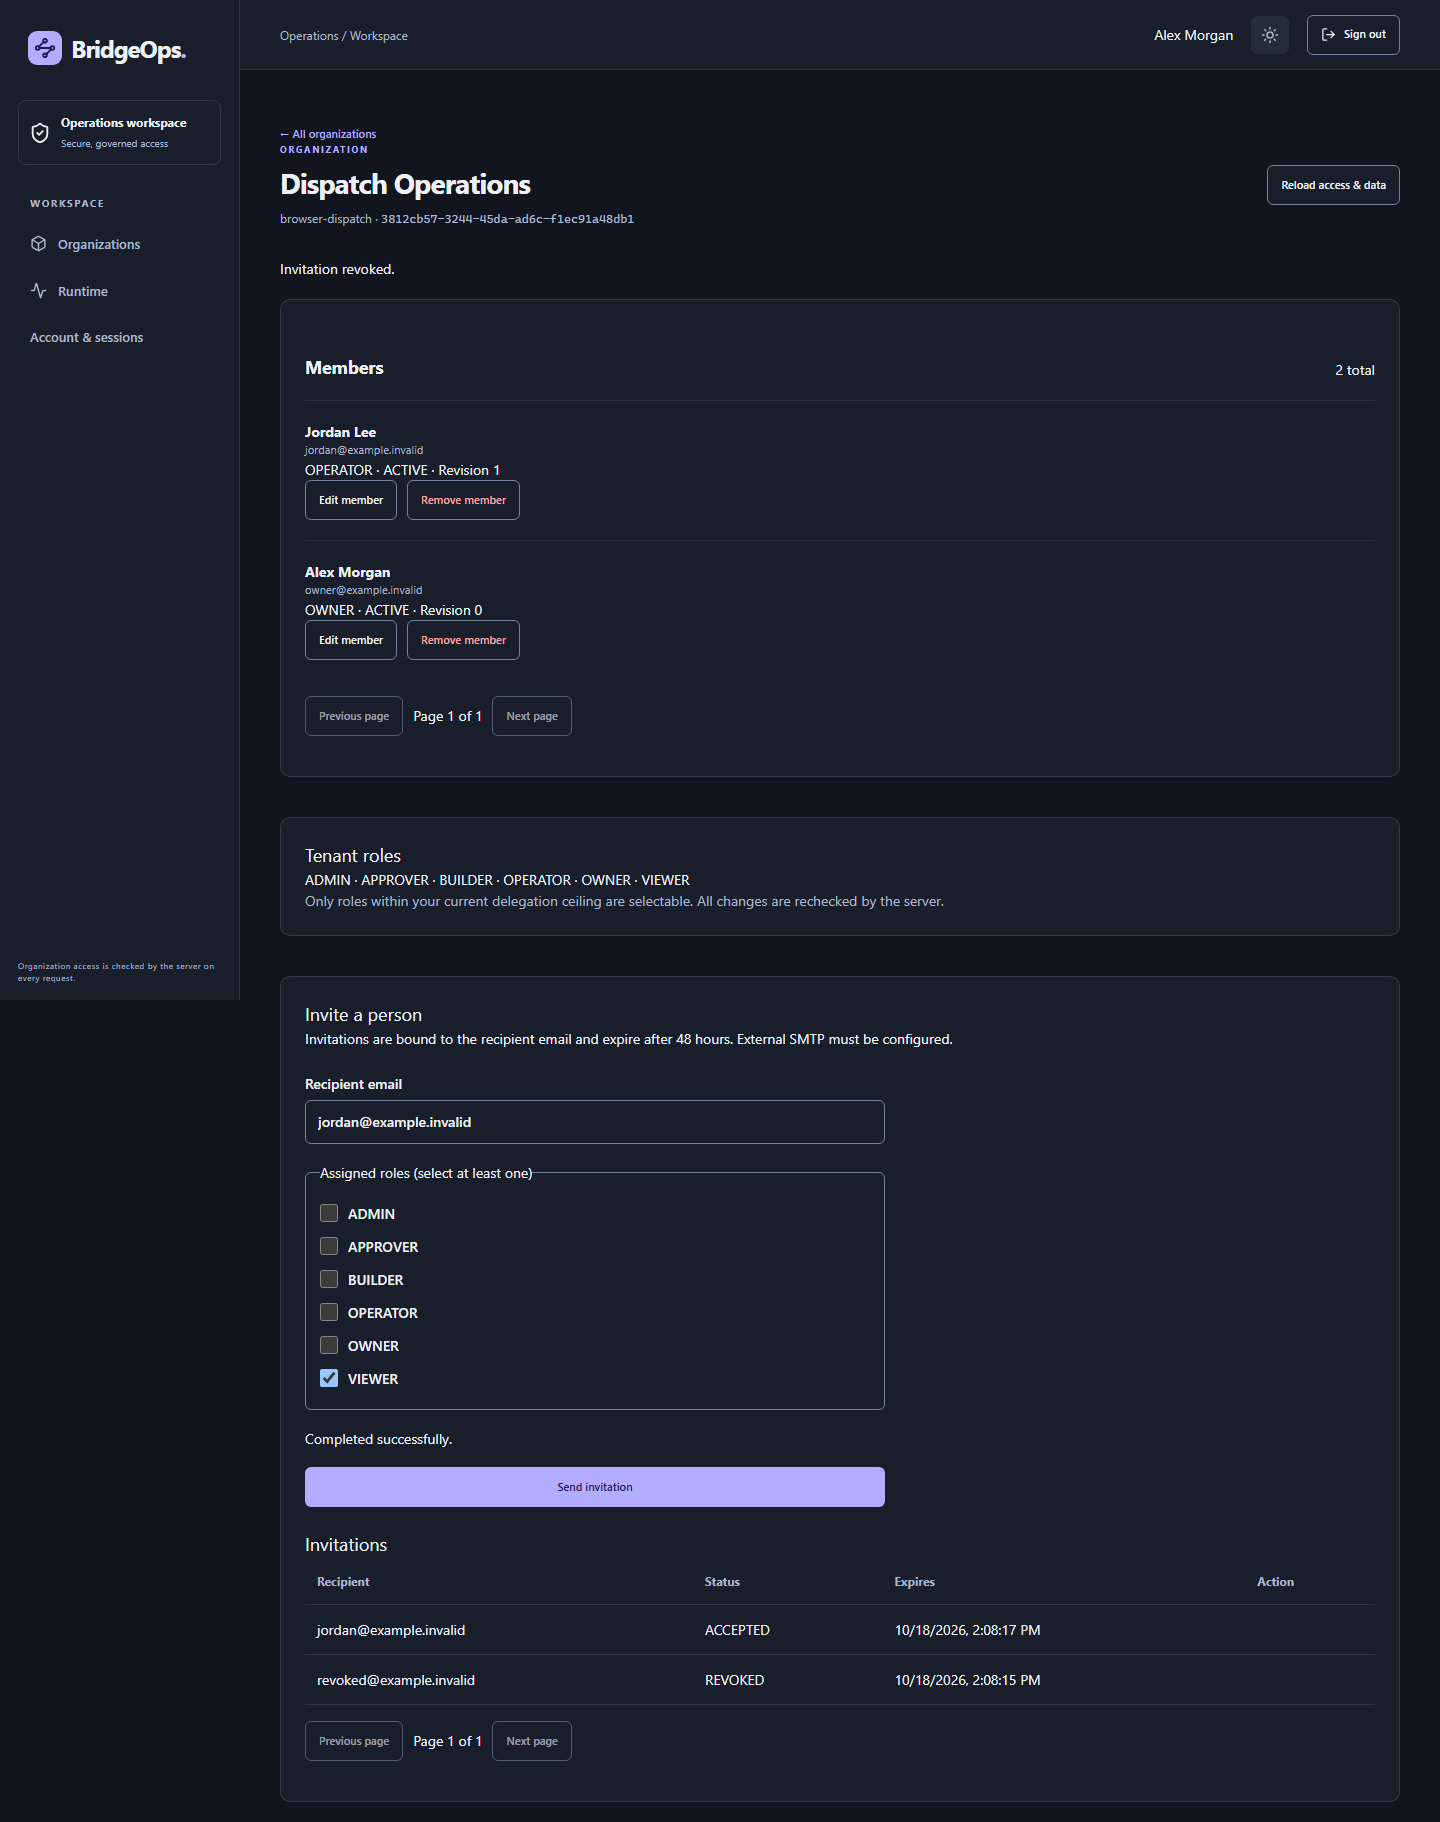
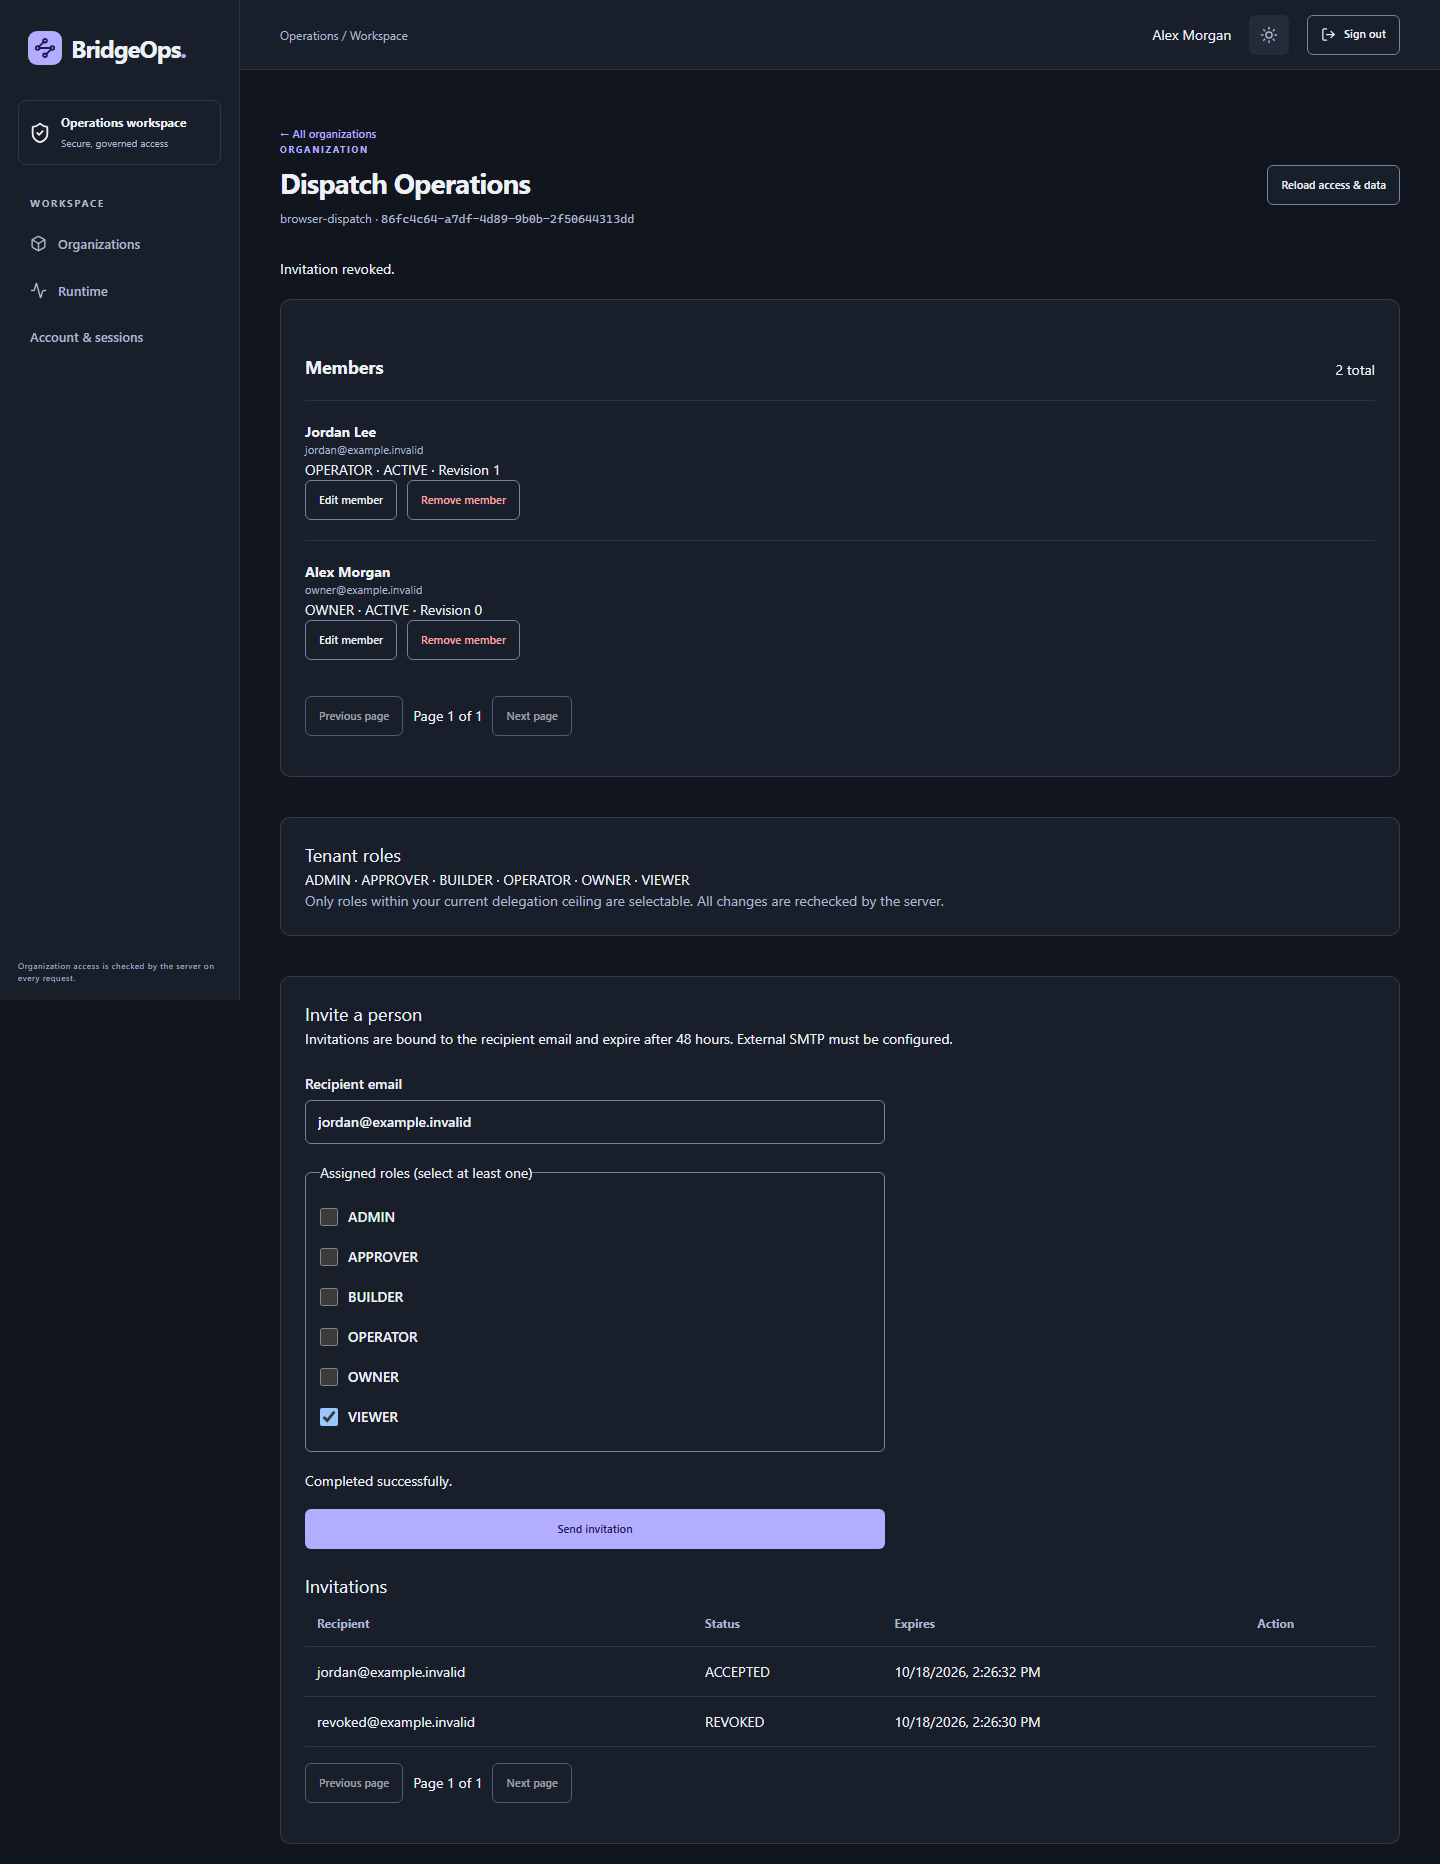
fix(web): improve keyboard access and surface safe browser CI diagnostics

diff --git a/frontend/src/styles/app.css b/frontend/src/styles/app.css
@@ -1062,11 +1062,49 @@ th {
     min-width: 0;
   }
 }
-@media(max-width:600px) {
- .sidebar { flex-direction:column; align-items:stretch; }
- .sidebar .brand { width:fit-content; }
- .sidebar nav { margin-left:0; flex-wrap:wrap; gap:6px; }
- .sidebar nav a { flex:1; justify-content:center; }
- .page-heading { min-width:0; }
- .page-heading > div { min-width:0; max-width:100%; }
+@media (max-width: 600px) {
+  .sidebar {
+    flex-direction: column;
+    align-items: stretch;
+  }
+  .sidebar .brand {
+    width: fit-content;
+  }
+  .sidebar nav {
+    margin-left: 0;
+    flex-wrap: wrap;
+    gap: 6px;
+  }
+  .sidebar nav a {
+    flex: 1;
+    justify-content: center;
+  }
+  .page-heading {
+    min-width: 0;
+  }
+  .page-heading > div {
+    min-width: 0;
+    max-width: 100%;
+  }
+}
+/* Design-foundation pointer targets; labels are the complete checkbox hit area. */
+.button,
+.icon-button {
+  min-height: 40px;
+  min-width: 40px;
+}
+.check-label {
+  min-height: 40px;
+}
+.table-scroll:focus-visible {
+  outline: 3px solid var(--color-focus);
+  outline-offset: 3px;
+}
+@media (max-width: 600px) {
+  .button,
+  .icon-button,
+  .check-label {
+    min-height: 44px;
+    min-width: 44px;
+  }
 }

diff --git a/frontend/src/app/Organizations.tsx b/frontend/src/app/Organizations.tsx
@@ -460,7 +460,12 @@ export function OrganizationDetail({ user }: { user: User }) {
               {invitations.data.items.length === 0 && (
                 <p>No invitations have been issued.</p>
               )}
-              <div className="table-scroll">
+              <div
+                className="table-scroll"
+                tabIndex={0}
+                role="region"
+                aria-label="Invitation history"
+              >
                 <table>
                   <thead>
                     <tr>

diff --git a/backend/src/test/java/com/bridgeops/browser/BrowserJourneyIT.java b/backend/src/test/java/com/bridgeops/browser/BrowserJourneyIT.java
@@ -65,7 +65,7 @@ class BrowserJourneyIT {
    Path asset=frontend.resolve(path.substring(1)).normalize();if(!asset.startsWith(frontend)){reply(exchange,404,"text/plain",new byte[0]);return;}if(!Files.isRegularFile(asset))asset=frontend.resolve("index.html");String name=asset.getFileName().toString();String mime=name.endsWith(".js")?"application/javascript":name.endsWith(".css")?"text/css":name.endsWith(".svg")?"image/svg+xml":"text/html";reply(exchange,200,mime,Files.readAllBytes(asset));
   }catch(Exception failure){if(exchange.getResponseCode()<0)reply(exchange,502,"text/plain","Disposable gateway unavailable.".getBytes(StandardCharsets.UTF_8));}finally{exchange.close();}});gateway.start();
   Path results=root.resolve("backend/target/browser-checks");Files.createDirectories(results);var command=new ProcessBuilder(System.getenv().getOrDefault("BRIDGEOPS_TEST_NODE","node"),root.resolve("frontend/e2e/journey.mjs").toString()).directory(root.toFile()).redirectErrorStream(true).redirectOutput(results.resolve("journey.log").toFile());command.environment().put("BRIDGEOPS_TEST_ORIGIN",ORIGIN);command.environment().put("BRIDGEOPS_TEST_CONTROL",CONTROL);command.environment().put("BRIDGEOPS_TEST_FOREIGN_ORG",foreign.id().toString());
-  var process=command.start();try{boolean completed=process.waitFor(180,TimeUnit.SECONDS);if(!completed)process.destroyForcibly();assertThat(completed).withFailMessage("Browser journey timed out; see ignored browser-checks diagnostics.").isTrue();assertThat(process.exitValue()).withFailMessage("Browser journey failed; inspect backend/target/browser-checks/journey.log (redacted step diagnostics).").isZero();}finally{if(process.isAlive())process.destroyForcibly();}
+  var process=command.start();try{boolean completed=process.waitFor(180,TimeUnit.SECONDS);if(!completed)process.destroyForcibly();assertThat(completed).withFailMessage("Browser journey timed out; see ignored browser-checks diagnostics.").isTrue();if(process.exitValue()!=0){try(var lines=Files.lines(results.resolve("journey.log"))){lines.filter(line->line.startsWith("STEP:") || line.startsWith("FAIL:") || line.startsWith("HTTP:") || line.startsWith("LAYOUT:")).forEach(System.out::println);}}assertThat(process.exitValue()).withFailMessage("Browser journey failed; inspect backend/target/browser-checks/journey.log (redacted step diagnostics).").isZero();}finally{if(process.isAlive())process.destroyForcibly();}
  }
  static void reply(HttpExchange exchange,int status,String mime,byte[] bytes)throws java.io.IOException{if(mime!=null)exchange.getResponseHeaders().set("Content-Type",mime);exchange.sendResponseHeaders(status,status==204?-1:bytes.length);if(status!=204)exchange.getResponseBody().write(bytes);}
  @AfterAll static void cleanup()throws Exception{gateway.stop(0);gatewayThreads.shutdownNow();keys.close();}

diff --git a/backend/src/main/java/com/bridgeops/identity/application/RecoveryRequests.java b/backend/src/main/java/com/bridgeops/identity/application/RecoveryRequests.java
@@ -2,7 +2,7 @@ package com.bridgeops.identity.application;
 import jakarta.annotation.PreDestroy;
 import java.util.concurrent.*;
 import org.springframework.stereotype.Component;
-/** Generic acknowledgement precedes lookup/delivery; bounded volatile work, no durable queue or retries. */
+/** Acknowledgement does not wait for lookup/delivery; bounded volatile work, no durable queue or retries. */
 @Component
 public class RecoveryRequests {
  private final PasswordRecoveryService recovery;

diff --git a/docs/security/THREAT_MODEL.md b/docs/security/THREAT_MODEL.md
@@ -83,6 +83,6 @@ Offline bootstrap is explicit, non-web and disabled by default, with a row-locke
 
 Phase 1D.1 browser boundary: memory-only access, same-origin/no-store fetches, Web Lock serialization of cookie-sensitive sequences across tabs and credential-free invalidation broadcasts. Unsupported locking fails closed. Backend permission/session checks remain authoritative; client route guards confer no authority. Browser end-to-end and production security review remain pending.
 
-Phase 1D recovery boundary: V8 hash-only 15-minute proofs, account-before-proof/family locks, atomic consumption, current verified/ACTIVE eligibility, audited password changes and all-family revocation. Generic public 202 precedes lookup/delivery using a bounded volatile dispatcher; it is not proof of mail delivery or a durable outbox. Disabled/failed SMTP produces no usable new proof; payloads/provider exceptions are not logged. Existing invitation TLS configuration now feeds a module-neutral outbound email port. [Exact behavior and limits](../development/PHASE_1D_BROWSER.md).
+Phase 1D recovery boundary: V8 hash-only 15-minute proofs, account-before-proof/family locks, atomic consumption, current verified/ACTIVE eligibility, audited password changes and all-family revocation. Generic public 202 does not wait for lookup/delivery, which use a bounded volatile dispatcher; it is not proof of mail delivery or a durable outbox. Disabled/failed SMTP produces no usable new proof; payloads/provider exceptions are not logged. Existing invitation TLS configuration now feeds a module-neutral outbound email port. [Exact behavior and limits](../development/PHASE_1D_BROWSER.md).
 
 Final Phase 1D verification includes the real disposable Chromium journey, cross-tab cookie rotation, tenant/global-capability denial, reset/change revocation and final restricted-runtime PostgreSQL suites. These tests and visual checks do not constitute WCAG or production-security certification. No persistent local identity or real email was created by verification.

diff --git a/docs/development/PHASE_1D_BROWSER.md b/docs/development/PHASE_1D_BROWSER.md
@@ -51,3 +51,5 @@ Actual desktop/mobile/dark captures are in [screenshots](../screenshots/phase1d-
 Windows host note: the JDK selector wakeup socket failed with short-name TEMP paths. The test fixture sets jdk.net.unixdomain.tmpdir to a canonical ignored target directory only on Windows when not explicitly configured, following [OpenJDK networking-property guidance](https://cr.openjdk.org/~hannesw/release-selector/api.00/jdk21/java.base/java/net/doc-files/net-properties.html). It changes no OS/production property. BRIDGEOPS_TEST_NODE selects a pinned host executable if the default node is older; CI uses the pinned setup-node runtime.
 
 Final local release checks passed: full Maven verify 110 tests (21 unit/MVC plus 89 required PostgreSQL/browser integration cases), zero failures/errors/skips; frontend 17 tests, typecheck/lint/build; production dependency audit 0 vulnerabilities; documentation checker; Compose config/build/start with all three services healthy; V1–V8 migration and live database privilege checks. Persistent users/organizations/reset proofs remain zero, installation marker unconsumed and SMTP disabled. Same-origin public probes/CSRF returned 200, forgot without CSRF 403 and unauthenticated me 401. Production jar inspection confirmed no BrowserJourneyIT/TestAuthMaterial/MailCapture fixture classes. Actual hosted result is checked after publication.
+
+Final touch/keyboard refinement: rendered mobile button/icon/checkbox-label targets are at least 44px (40px desktop). Invitation history has a labelled focusable scroll region with visible focus; the real browser checks keyboard ArrowRight scrolling and actual geometry. Local frontend 17/static/build gates and the complete browser journey passed after this refinement. The initial Linux hosted browser gate failed; credential-free step/HTTP/layout diagnostics now surface its failure location, and cleanup tolerates an environment that was never created. Hosted remediation remains pending until a successful run is observed.

diff --git a/docs/PROJECT_STATUS.md b/docs/PROJECT_STATUS.md
@@ -13,7 +13,7 @@ Initial inspection found clean local master exactly matching fetched origin/mast
 | 1D.2 organizations, members and invitation browser journeys / safe read contracts | 078c3e2; push/ref verified; [CI passed](https://github.com/ChouaibSeishin/BridgeOps/actions/runs/38909776173) |
 | 1D.3 password change/recovery, V8 and neutral shared mail port | 594e0d3; push/ref verified; [CI passed](https://github.com/ChouaibSeishin/BridgeOps/actions/runs/38911492628) |
 
-The final increment's hash/remote/CI result is recorded only after actual publication.
+6416a5c was pushed/ref-verified. Its [first hosted browser run failed](https://github.com/ChouaibSeishin/BridgeOps/actions/runs/38914798975) while the other 88 integration cases passed. Local full verification passed; Linux browser diagnostics and final touch/keyboard refinements are being verified. No hosted completion is claimed until the retry succeeds.
 
 ## Implemented behavior
 
